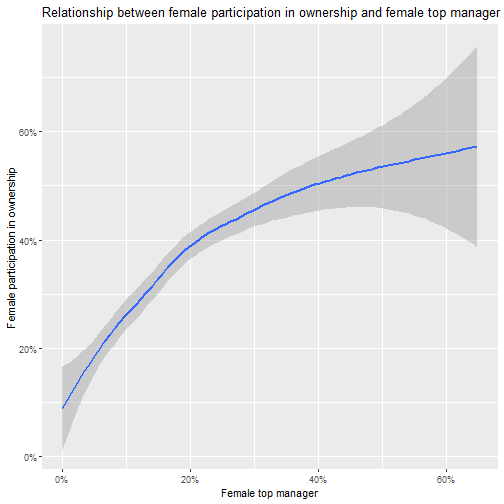
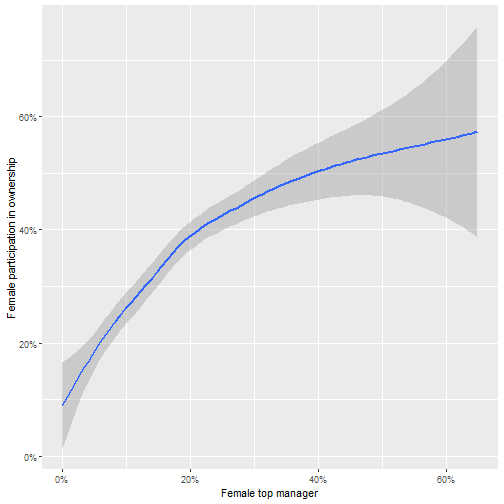
adjusted the content and made it into 10 slides

diff --git a/world_bank.html b/world_bank.html
@@ -26,13 +26,10 @@ class: inverse, center, middle
 
 
 
----
-class: center, middle
-
 &gt;“Gender inequality is not only a pressing moral and social issue, but also a critical economic &gt;challenge.”     — McKinsey Global Institute
 
 ---
-class: center, middle
+class: middle
 
 This report intends to explore the female representation in top management. 
 
@@ -40,7 +37,9 @@ This report intends to explore the female representation in top management.
 
 Four variables from the world bank database
 
-- High-technology exports (% of manufactured exports)
+--
+
+- High-technology exports (% of manufactured exports)--
 
 --
 
@@ -67,7 +66,8 @@ class: inverse, center, middle
 # Explore the data
 
 ---
-# Firms with female participation in ownership by year
+
+## Firms with female participation in ownership by year
 
 ![](world_bank_files/figure-html/ownership-1.png)&lt;!-- --&gt;
 
@@ -76,30 +76,16 @@ As shown below, the data start merely from the 21 century when the phenomenon ca
 
 ---
 
-# Firms with female top manager by year
+## Firms with female top manager by year
 
 ![](world_bank_files/figure-html/top manager-1.png)&lt;!-- --&gt;
-
-```
-## $x
-## [1] "year"
-## 
-## $y
-## [1] "% of firms"
-## 
-## $title
-## [1] "Firms with female top manager"
-## 
-## attr(,"class")
-## [1] "labels"
-```
 
 ???
 As like the female participation in ownership data, percentage of firms with female manager don't have apparent trend over the years concerned, but with a even lower average, fluctuating between 10% to 20%. Females are largely underrepresented in the top management.
 
 ---
 
-# Relationship between female participation in ownership and female top manager
+## Relationship between female participation in ownership and female top manager
 
 ![](world_bank_files/figure-html/unnamed-chunk-3-1.png)&lt;!-- --&gt;
 
@@ -107,7 +93,25 @@ As like the female participation in ownership data, percentage of firms with fem
 Since neither the percentage of female in top mangement nor female participation in ownership alone indicate any trend along the years. Doubts arise whether these two variables are telling the same story. Covariance analysis is hereby given that demonstrates these two variables are positively related to each other. Where females appear more often as top managers, female participation in ownership is correspondingly higher. This result suggests the position of female in leadership is consistent across different measurements.
 
 ---
+## Relationship between Start-up procedures to register a business(female) and female top manager
 
+
+
+```
+## Warning: Removed 3 rows containing missing values (stat_boxplot).
+```
+
+![](world_bank_files/figure-html/unnamed-chunk-4-1.png)&lt;!-- --&gt;
+
+???
+Previous analysis proved the existence of the gender inequality, and showed a stagnant situation. Such situation set me thinking, wondering what relates to or causes the phenomenon. Therefore, shown below, I tested two possible related variables, but the output failed to give any enlightment. 
+
+## Relationship between High-technology exports and female top manager
+![](world_bank_files/figure-html/unnamed-chunk-5-1.png)&lt;!-- --&gt;
+
+???
+However, it could be just that the number or quality of dataset isn't good enough to reflect the reality. Besides, other variables may be included to give more insights.  
+---
 class: center, middle
 
 # Thanks!
@@ -118,6 +122,7 @@ Slides created via the R package
 <style data-target="print-only">@media screen {.remark-slide-container{display:block;}.remark-slide-scaler{box-shadow:none;}}</style>
 <script src="https://remarkjs.com/downloads/remark-latest.min.js"></script>
 <script>var slideshow = remark.create({
+"countIncrementalSlides": false,
 "highlightStyle": "github"
 });
 if (window.HTMLWidgets) slideshow.on('afterShowSlide', function (slide) {

diff --git a/libs/remark-css/default.css b/libs/remark-css/default.css
@@ -1,0 +1,72 @@
+a, a > code {
+  color: rgb(249, 38, 114);
+  text-decoration: none;
+}
+.footnote {
+  position: absolute;
+  bottom: 3em;
+  padding-right: 4em;
+  font-size: 90%;
+}
+.remark-code-line-highlighted     { background-color: #ffff88; }
+
+.inverse {
+  background-color: #272822;
+  color: #d6d6d6;
+  text-shadow: 0 0 20px #333;
+}
+.inverse h1, .inverse h2, .inverse h3 {
+  color: #f3f3f3;
+}
+/* Two-column layout */
+.left-column {
+  color: #777;
+  width: 20%;
+  height: 92%;
+  float: left;
+}
+.left-column h2:last-of-type, .left-column h3:last-child {
+  color: #000;
+}
+.right-column {
+  width: 75%;
+  float: right;
+  padding-top: 1em;
+}
+.pull-left {
+  float: left;
+  width: 47%;
+}
+.pull-right {
+  float: right;
+  width: 47%;
+}
+.pull-right ~ * {
+  clear: both;
+}
+img, video, iframe {
+  max-width: 100%;
+}
+blockquote {
+  border-left: solid 5px lightgray;
+  padding-left: 1em;
+}
+.remark-slide table {
+  margin: auto;
+  border-top: 1px solid #666;
+  border-bottom: 1px solid #666;
+}
+.remark-slide table thead th { border-bottom: 1px solid #ddd; }
+th, td { padding: 5px; }
+.remark-slide thead, .remark-slide tfoot, .remark-slide tr:nth-child(even) { background: #eee }
+
+@page { margin: 0; }
+@media print {
+  .remark-slide-scaler {
+    width: 100% !important;
+    height: 100% !important;
+    transform: scale(1) !important;
+    top: 0 !important;
+    left: 0 !important;
+  }
+}

diff --git a/libs/remark-css/default-fonts.css b/libs/remark-css/default-fonts.css
@@ -1,0 +1,10 @@
+@import url(https://fonts.googleapis.com/css?family=Yanone+Kaffeesatz);
+@import url(https://fonts.googleapis.com/css?family=Droid+Serif:400,700,400italic);
+@import url(https://fonts.googleapis.com/css?family=Source+Code+Pro:400,700);
+
+body { font-family: 'Droid Serif', 'Palatino Linotype', 'Book Antiqua', Palatino, 'Microsoft YaHei', 'Songti SC', serif; }
+h1, h2, h3 {
+  font-family: 'Yanone Kaffeesatz';
+  font-weight: normal;
+}
+.remark-code, .remark-inline-code { font-family: 'Source Code Pro', 'Lucida Console', Monaco, monospace; }
